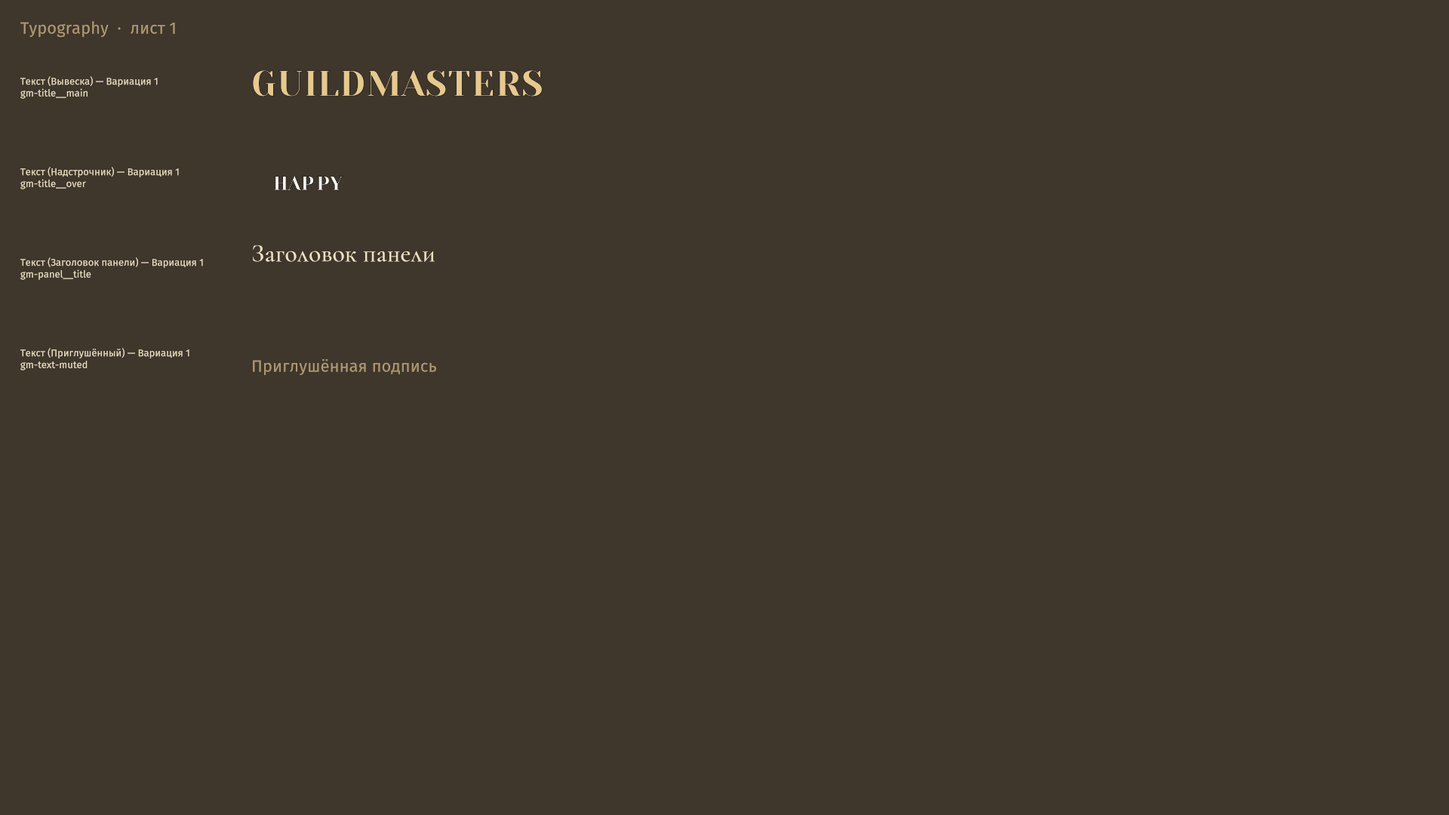
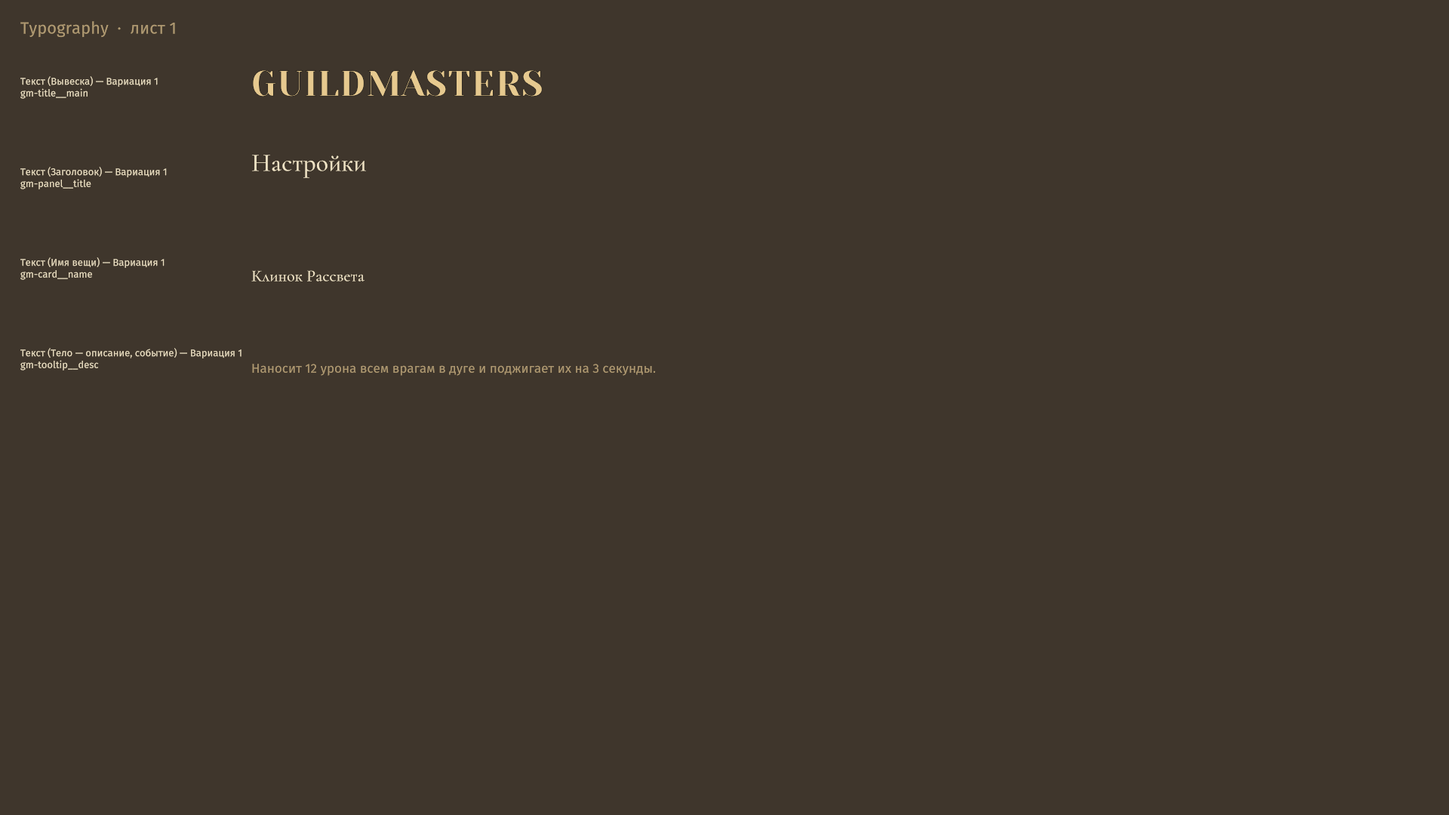
feat(ui): text gets eight roles and a measurement, deletion becomes a state
Три правки Макса.

«Удаление» переехало из ролей в СОСТОЯНИЯ кнопки: красный говорит о
последствии нажатия, а не о месте действия в иерархии экрана — тем же
свойством обладает «не по карману». Ролей осталось две.

Обычная получила такой же перепад градиента, что и главная: стояли соседние
ступени ink (700-800), и на кнопке высотой 78px это читалось плоской
заливкой. Взяты 600-800 — тот же шаг в две ступени, что у патины.

Текст собран в ВОСЕМЬ ролей: вывеска, заголовок, имя вещи, тело, подпись
действия, число, метка, код. Надстрочник, метка сборки и ключевое слово —
частные случаи, а не роли. Под каждым образцом теперь ЗАМЕР с живого
элемента: гарнитура, кегль, цвет, разрядка.

Замер тут же поймал два вранья витрины. Подпись действия показывала 14px
почти чёрным, а «код» — FiraSans вместо Fira Mono: обе роли набираются
правилами ПРЕДКА (кнопки и консоли), а образцы стояли без него. Теперь
собираются в своём контексте — 26px латунью и FiraMono соответственно.

Разведка попутно: типографику в дереве задают 75 классов, и роль «тело»
размазана по четырём из них. Сведение — отдельный заход тем же приёмом,
каким сведены кнопки.

diff --git a/docs/lab/src/sections/ui-states.ts b/docs/lab/src/sections/ui-states.ts
@@ -21,6 +21,8 @@ interface FrameElement {
   label: string;
   block: string;
   states: string;
+  /** Замер с живого образца: гарнитура, кегль, цвет, разрядка. Пусто у нетекстовых. */
+  type?: string;
 }
 
 interface Frame {
@@ -104,8 +106,10 @@ function frameCard(frame: Frame): HTMLElement {
   list.style.margin = "0.8rem 0 0";
   list.style.paddingLeft = "1.2rem";
   for (const item of frame.elements) {
-    list.appendChild(html("li",
-      `<code>${item.block}</code> — ${item.label} <span class="dim">· ${stateWords(item.states)}</span>`));
+    const tail = item.type
+      ? `<span class="dim">· ${item.type}</span>`
+      : `<span class="dim">· ${stateWords(item.states)}</span>`;
+    list.appendChild(html("li", `<code>${item.block}</code> — ${item.label} ${tail}`));
   }
   box.appendChild(list);
 

diff --git a/Assets/_Project/Scripts/UI/Components/UiComponentRegistry.cs b/Assets/_Project/Scripts/UI/Components/UiComponentRegistry.cs
@@ -168,14 +168,14 @@ namespace Guildmaster.UI.Components
             // «Вариация N» в подписи — задел: вторая вариация роли появится, и ей найдётся номер, а
             // не новое существительное. Роль пишется в скобках, потому что имя обязано отвечать на
             // вопрос «какую брать сюда» без заглядывания в картинку.
+            // РОЛЕЙ ДВЕ. «Удаление» — СОСТОЯНИЕ кнопки, а не третья кнопка в наборе (решение Макса
+            // 06.08.2026): красный тут значит «отменить будет нечем», то есть говорит о последствии
+            // нажатия, а не о месте действия в иерархии экрана. Тем же свойством обладает
+            // «не по карману»: обе метки накладываются на любую роль и ни одну не заменяют.
             New("Кнопка (Обычная) — Вариация 1", "gm-button", UiComponentGroup.Buttons, Interactive, null,
-                "gm-button--display", "gm-button--unaffordable"),
+                "gm-button--display", "gm-button--danger", "gm-button--unaffordable"),
             New("Кнопка (Главная) — Вариация 1", "gm-button--primary", UiComponentGroup.Buttons,
                 Interactive, OfButton),
-            // Единственная роль, которую держит НЕОБРАТИМОСТЬ, а не иерархия действий: красный тут
-            // значит «отменить будет нечем», а не «важнее соседней кнопки».
-            New("Кнопка (Для удаления / необратимого) — Вариация 1", "gm-button--danger",
-                UiComponentGroup.Buttons, Interactive, OfButton),
             NewTechnical("Пластина (форма, не элемент набора)", "gm-plate-button", UiComponentGroup.Buttons,
                 Interactive),
 
@@ -223,23 +223,35 @@ namespace Guildmaster.UI.Components
             New("Слайдер", "gm-slider-row", UiComponentGroup.Rows, RowInteractive, null),
 
             // --- ТЕКСТ ---
-            // Вопрос Макса 06.08.2026: «Где я могу ознакомиться с вариациями текста (шрифты + цвет +
-            // различные иные особенности (КАПС как в меню, например))?» Ответ был «нигде»: цвета
-            // жили ролями в семантике, гарнитуры — ярусом шрифтов, документ существовал, а
-            // ПОСМОТРЕТЬ на них было негде.
+            // ВОСЕМЬ РОЛЕЙ, а не перепись классов (правило Макса 06.08.2026: «как и кнопки,
+            // желательно придти к небольшому количеству реально нужных вариантов»). Отвечает на
+            // вопрос «какой текст брать сюда»: заголовок, имя вещи, тело, подпись действия, число,
+            // метка. Надстрочник, метка сборки, заголовок раздела и ключевое слово — ЧАСТНЫЕ СЛУЧАИ
+            // этих восьми, а не собственные роли: они отличаются кеглем или цветом, то есть осью
+            // размера и ролью цвета, а не назначением.
             //
-            // КАПС в перечень не входит и входить не может: `text-transform` в UI Toolkit
-            // отсутствует, капитель задают САМИ БУКВЫ в разметке. Это решение по тексту, а не по
-            // стилю, и витрина показывает его образцом, а не свойством.
+            // В дереве типографику задают 75 классов, и роль «тело» размазана по четырём из них
+            // (gm-tooltip__desc, gm-detail__desc, gm-event-body, gm-loadout__narrative-text).
+            // Здесь по одному ПРЕДСТАВИТЕЛЮ на роль; сведение самих классов — отдельный заход тем же
+            // приёмом, каким сведены кнопки.
+            //
+            // РЕГИСТР не входит в перечень: `text-transform` в UI Toolkit отсутствует, капитель
+            // задают САМИ БУКВЫ в разметке. Образцы написаны так, как эти строки пишутся в игре.
             New("Текст (Вывеска) — Вариация 1", "gm-title__main", UiComponentGroup.Typography,
                 UiElementState.None, null),
-            New("Текст (Надстрочник) — Вариация 1", "gm-title__over", UiComponentGroup.Typography,
+            New("Текст (Заголовок) — Вариация 1", "gm-panel__title", UiComponentGroup.Typography,
                 UiElementState.None, null),
-            New("Текст (Заголовок панели) — Вариация 1", "gm-panel__title", UiComponentGroup.Typography,
+            New("Текст (Имя вещи) — Вариация 1", "gm-card__name", UiComponentGroup.Typography,
                 UiElementState.None, null),
-            New("Текст (Приглушённый) — Вариация 1", "gm-text-muted", UiComponentGroup.Typography,
+            New("Текст (Тело — описание, событие) — Вариация 1", "gm-tooltip__desc",
+                UiComponentGroup.Typography, UiElementState.None, null),
+            New("Текст (Подпись действия) — Вариация 1", "gm-plate-button__label",
+                UiComponentGroup.Typography, UiElementState.None, null),
+            New("Текст (Число) — Вариация 1", "gm-stat__value", UiComponentGroup.Typography,
                 UiElementState.None, null),
-            New("Текст (Метка сборки) — Вариация 1", "gm-version-stamp", UiComponentGroup.Typography,
+            New("Текст (Метка) — Вариация 1", "gm-text-muted", UiComponentGroup.Typography,
+                UiElementState.None, null),
+            New("Текст (Код, дев) — Вариация 1", "gm-console__keys", UiComponentGroup.Typography,
                 UiElementState.None, null),
 
             // --- ПАНЕЛИ И ДЕКОР ---

diff --git a/Assets/_Project/Scripts/DevTools/UiSampleFactory.cs b/Assets/_Project/Scripts/DevTools/UiSampleFactory.cs
@@ -76,14 +76,6 @@ namespace Guildmaster.DevTools
             ["gm-tooltip"]             = () => Box("gm-tooltip"),
             ["gm-tooltip__card"]       = () => Tooltip(),
 
-            // Текст. Образец — короткая строка НАШИМИ буквами: кириллица показывает гарнитуру
-            // честнее латиницы, а капитель видно только на живом слове.
-            ["gm-title__main"]         = () => Text("GUILDMASTERS"),
-            ["gm-title__over"]         = () => Text("HAPPY"),
-            ["gm-panel__title"]        = () => Text("Заголовок панели"),
-            ["gm-text-muted"]          = () => Text("Приглушённая подпись"),
-            ["gm-version-stamp"]       = () => Text("v0.1.0-demo"),
-
             // Дев-тулинг.
             ["gm-console__tool"]       = () => Btn("gm-console__tool"),             // DevConsoleScreen.uxml:26
             ["gm-console__hit"]        = () => Box("gm-console__hit"),              // DevConsoleScreen.cs:415
@@ -91,23 +83,50 @@ namespace Guildmaster.DevTools
             ["gm-picker__head-cell"]   = () => Box("gm-picker__head-cell"),
         };
 
-        /// <summary>Знает ли фабрика, как собрать этот блок.</summary>
-        public static bool Knows(string block) => Builders.ContainsKey(block);
+        /// <summary>
+        /// Образцы ТЕКСТОВЫХ ролей — отдельной таблицей.
+        /// </summary>
+        /// <remarks>
+        /// Разведены не для порядка: <c>gm-tab</c> живёт в обеих группах — как вкладка (пластина) и
+        /// как её подпись (строка), — и в одном словаре ключи столкнулись бы. Группа записи и решает,
+        /// из какой таблицы брать образец.
+        /// </remarks>
+        private static readonly Dictionary<string, Func<VisualElement>> TextBuilders = new()
+        {
+            // Текст. Образцы написаны ТАК, КАК ЭТИ СТРОКИ ПИШУТСЯ В ИГРЕ: регистр в UI Toolkit не
+            // задаётся стилем (`text-transform` отсутствует), его задают сами буквы. Кириллица —
+            // везде, где она бывает в игре: гарнитуру она показывает честнее латиницы.
+            ["gm-title__main"]         = () => Text("GUILDMASTERS"),
+            ["gm-panel__title"]        = () => Text("Настройки"),
+            ["gm-card__name"]          = () => Text("Клинок Рассвета"),
+            ["gm-tooltip__desc"]       = () => Text("Наносит 12 урона всем врагам в дуге и поджигает их на 3 секунды."),
+            // Подпись действия и код набираются В СВОЁМ КОНТЕКСТЕ: кегль подписи задаёт сама кнопка,
+            // а моноширинную гарнитуру консоли — правило `.gm-console .unity-text-element`, то есть
+            // ПРЕДОК. Без обёртки образец показывал 14px почти чёрным и FiraSans вместо Fira Mono —
+            // враньё, которое поймал замер, а не глаз.
+            ["gm-plate-button__label"] = () => Within("gm-button", "gm-plate-button__label", "НАЧАТЬ ЗАБЕГ"),
+            ["gm-stat__value"]         = () => Text("128"),
+            ["gm-text-muted"]          = () => Text("Приглушённая подпись"),
+            ["gm-console__keys"]       = () => Within("gm-console", "gm-console__keys", "gm.spawn(\"goblin\", 3)"),
+        };
 
         /// <summary>
         /// Образец элемента. Неизвестный блок отдаётся заметной пустышкой, а не тихой коробкой:
         /// дыра в таблице обязана бросаться в глаза на самом листе.
         /// </summary>
-        public static VisualElement Build(string block)
+        public static VisualElement Build(UiComponentEntry entry)
         {
-            if (Builders.TryGetValue(block, out Func<VisualElement> build))
+            Dictionary<string, Func<VisualElement>> table =
+                entry.Group == UiComponentGroup.Typography ? TextBuilders : Builders;
+
+            if (table.TryGetValue(entry.Block, out Func<VisualElement> build))
             {
                 VisualElement element = build();
-                if (!element.ClassListContains(block)) element.AddToClassList(block);
+                if (!element.ClassListContains(entry.Block)) element.AddToClassList(entry.Block);
                 return element;
             }
 
-            var unknown = new Label($"?? {block}");
+            var unknown = new Label($"?? {entry.Block}");
             unknown.AddToClassList("gm-sheet__unknown");
             return unknown;
         }
@@ -144,6 +163,20 @@ namespace Guildmaster.DevTools
 
         /// <summary>Образец текстовой роли: строка, у которой вид целиком приходит с класса.</summary>
         private static Label Text(string sample) => new(sample);
+
+        /// <summary>
+        /// Образец, которому нужен ПРЕДОК: часть ролей набирается правилами родителя, а не своими.
+        /// </summary>
+        private static VisualElement Within(string parentClass, string ownClass, string sample)
+        {
+            var host = new VisualElement();
+            host.AddToClassList(parentClass);
+
+            var label = new Label(sample);
+            label.AddToClassList(ownClass);
+            host.Add(label);
+            return host;
+        }
 
         private static VisualElement Box(params string[] classes)
         {

diff --git a/Assets/_Project/Scripts/DevTools/UiContactSheet.cs b/Assets/_Project/Scripts/DevTools/UiContactSheet.cs
@@ -76,6 +76,17 @@ namespace Guildmaster.DevTools
         private static readonly List<(VisualElement Element, object State)> Forced = new();
 
         /// <summary>
+        /// Образцы текущей страницы: блок → элемент. Нужны, чтобы снять с них ЗАМЕР после раскладки.
+        /// </summary>
+        /// <remarks>
+        /// Вопрос Макса 06.08.2026 был «шрифты + цвет + различные иные особенности», и картинка на
+        /// него отвечает наполовину: гарнитуру видно, а её ИМЯ и точный кегль — нет. Замер снимается
+        /// с живого элемента (<c>resolvedStyle</c>), то есть показывает то, что реально применилось,
+        /// а не то, что написано в правиле, — расхождение между этими двумя нас уже подводило.
+        /// </remarks>
+        private static readonly Dictionary<string, VisualElement> Measured = new();
+
+        /// <summary>
         /// Снимает лист по всем группам. Возвращает пути сохранённых кадров.
         /// </summary>
         /// <param name="runner">Держатель кадрового ожидания: снимок берётся строго в конце кадра.</param>
@@ -187,6 +198,7 @@ namespace Guildmaster.DevTools
                 sb.Append("{ \"label\": \"").Append(Escape(entries[i].Label))
                   .Append("\", \"block\": \"").Append(entries[i].Block)
                   .Append("\", \"states\": \"").Append(entries[i].Required)
+                  .Append("\", \"type\": \"").Append(Escape(Measure(entries[i].Block)))
                   .Append("\" }");
             }
 
@@ -194,6 +206,35 @@ namespace Guildmaster.DevTools
         }
 
         private static string Escape(string text) => text.Replace("\\", "\\\\").Replace("\"", "\\\"");
+
+        /// <summary>
+        /// Замер образца словами: гарнитура, кегль, цвет, разрядка. Пусто, если элемент не текстовый.
+        /// </summary>
+        /// <remarks>
+        /// Читается <c>resolvedStyle</c>, то есть ПРИМЕНИВШЕЕСЯ значение, а не объявленное в правиле.
+        /// Цвет печатается числами RGB: имя роли по значению не восстановить (одна ступень рампы
+        /// стоит за несколькими ролями), а число сверяется с палитрой напрямую.
+        /// </remarks>
+        private static string Measure(string block)
+        {
+            if (!Measured.TryGetValue(block, out VisualElement sample)) return string.Empty;
+
+            // Образец роли, набираемой предком, — это КОНТЕЙНЕР с подписью внутри; мерить надо саму
+            // подпись, иначе замер вернёт стиль пустой коробки.
+            VisualElement target = sample as Label ?? sample.Q<Label>() ?? sample;
+            IResolvedStyle style = target.resolvedStyle;
+            string face = style.unityFontDefinition.fontAsset != null
+                ? style.unityFontDefinition.fontAsset.name
+                : style.unityFont != null ? style.unityFont.name : "—";
+
+            Color c = style.color;
+            string color = $"rgb({Mathf.RoundToInt(c.r * 255)}, {Mathf.RoundToInt(c.g * 255)}, {Mathf.RoundToInt(c.b * 255)})";
+
+            var parts = new List<string> { face, $"{Mathf.RoundToInt(style.fontSize)}px", color };
+            if (Mathf.Abs(style.letterSpacing) > 0.01f) parts.Add($"разрядка {style.letterSpacing:0.#}px");
+
+            return string.Join(" · ", parts);
+        }
 
         private static List<UiComponentEntry> EntriesOf(UiComponentGroup group)
         {
@@ -212,6 +253,7 @@ namespace Guildmaster.DevTools
         {
             sheet.Clear();
             Forced.Clear();
+            Measured.Clear();
 
             var title = new Label($"{group}  ·  лист {page + 1}");
             title.AddToClassList("gm-sheet__title");
@@ -269,8 +311,12 @@ namespace Guildmaster.DevTools
             var cell = new VisualElement();
             cell.AddToClassList("gm-sheet__cell");
 
-            VisualElement sample = UiSampleFactory.Build(entry.Block);
+            VisualElement sample = UiSampleFactory.Build(entry);
             if (variant != null) sample.AddToClassList(variant);
+
+            // Замер снимается с образца В ПОКОЕ: состояния меняют цвет, и «цвет роли» в подписи
+            // должен означать покой, а не наведение.
+            if (variant == null && state == UiElementState.None) Measured[entry.Block] = sample;
 
             if (state == UiElementState.Disabled) sample.SetEnabled(false);
             else if (state == UiElementState.Checked) Check(sample);
